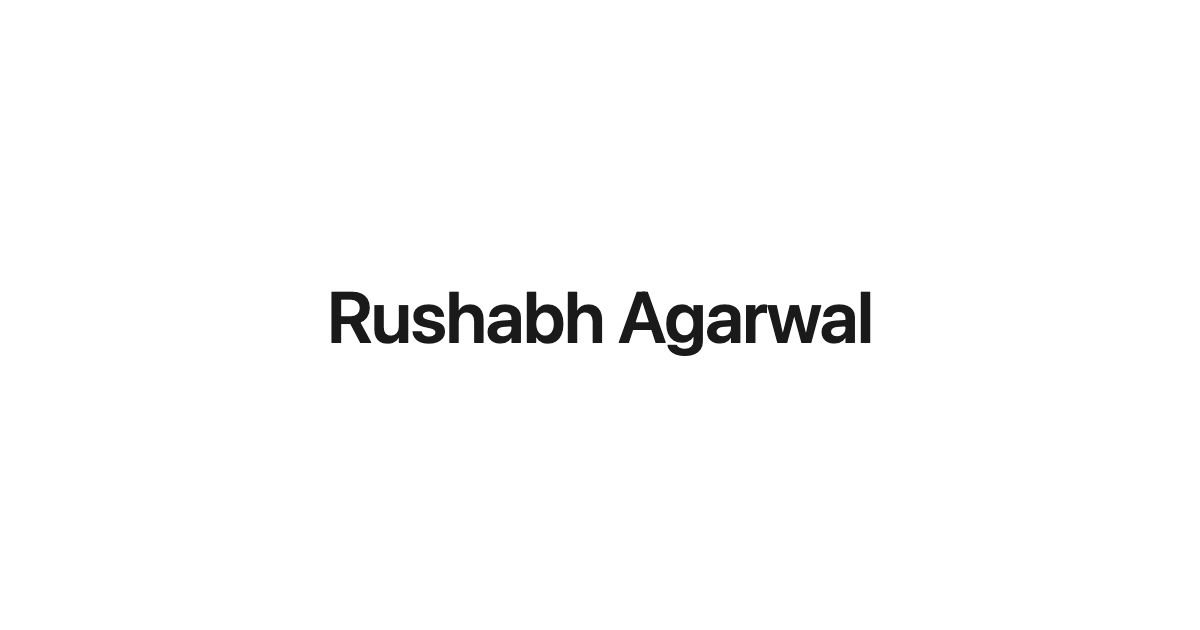
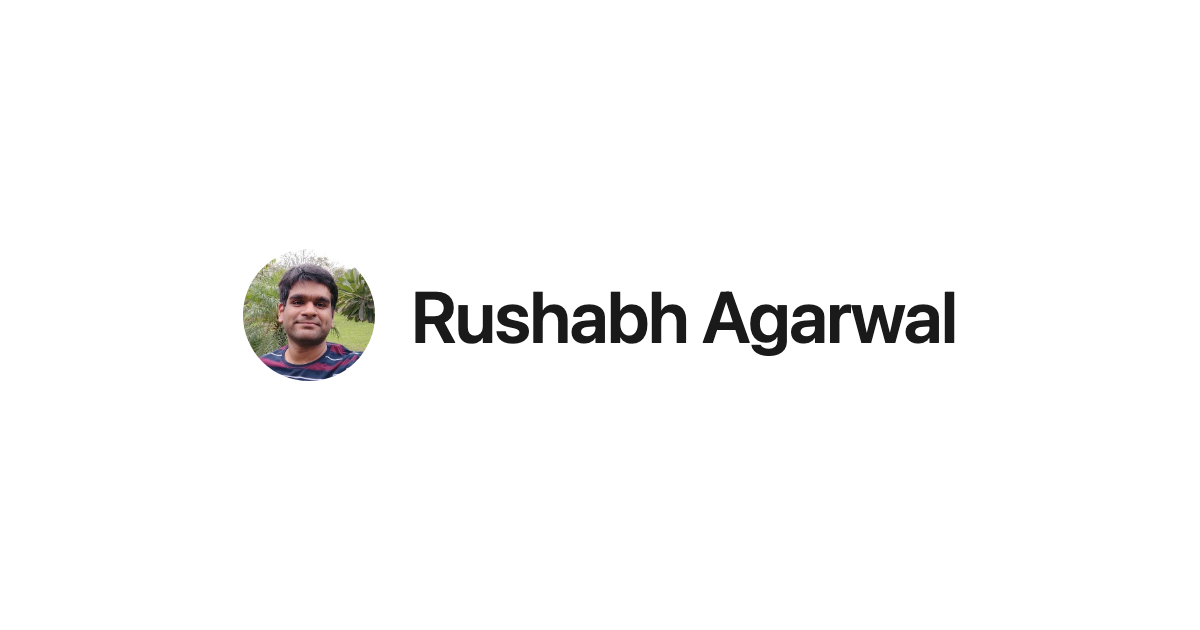
Add a small profile photo to the home page and the link preview card

Changed region(s): [[0.185, 0.3921, 0.8017, 0.6032]]

diff --git a/_layouts/default.html b/_layouts/default.html
@@ -26,6 +26,8 @@
       h2 { font-size: 1.05rem; margin: 2.25rem 0 0.5rem; }
       h3 { font-size: 1rem; margin: 1.75rem 0 0.5rem; }
       .site-name { font-weight: 600; text-decoration: none; }
+      .intro { display: flex; align-items: center; gap: 14px; margin: 0 0 0.5rem; }
+      .avatar { width: 56px; height: 56px; border-radius: 50%; object-fit: cover; }
       .post-date { color: var(--muted); font-size: 0.9rem; margin: -1.5rem 0 2rem; }
       .post-list { list-style: none; padding: 0; margin: 0; }
       .post-list li { margin: 0 0 0.6rem; }

diff --git a/index.md b/index.md
@@ -2,7 +2,7 @@
 title: "Rushabh Agarwal"
 ---
 
-<p class="site-name">Rushabh Agarwal</p>
+<p class="intro"><img class="avatar" src="{{ '/assets/images/rushabh.png' | relative_url }}" alt="Rushabh Agarwal" width="56" height="56"><span class="site-name">Rushabh Agarwal</span></p>
 
 ## About
 
